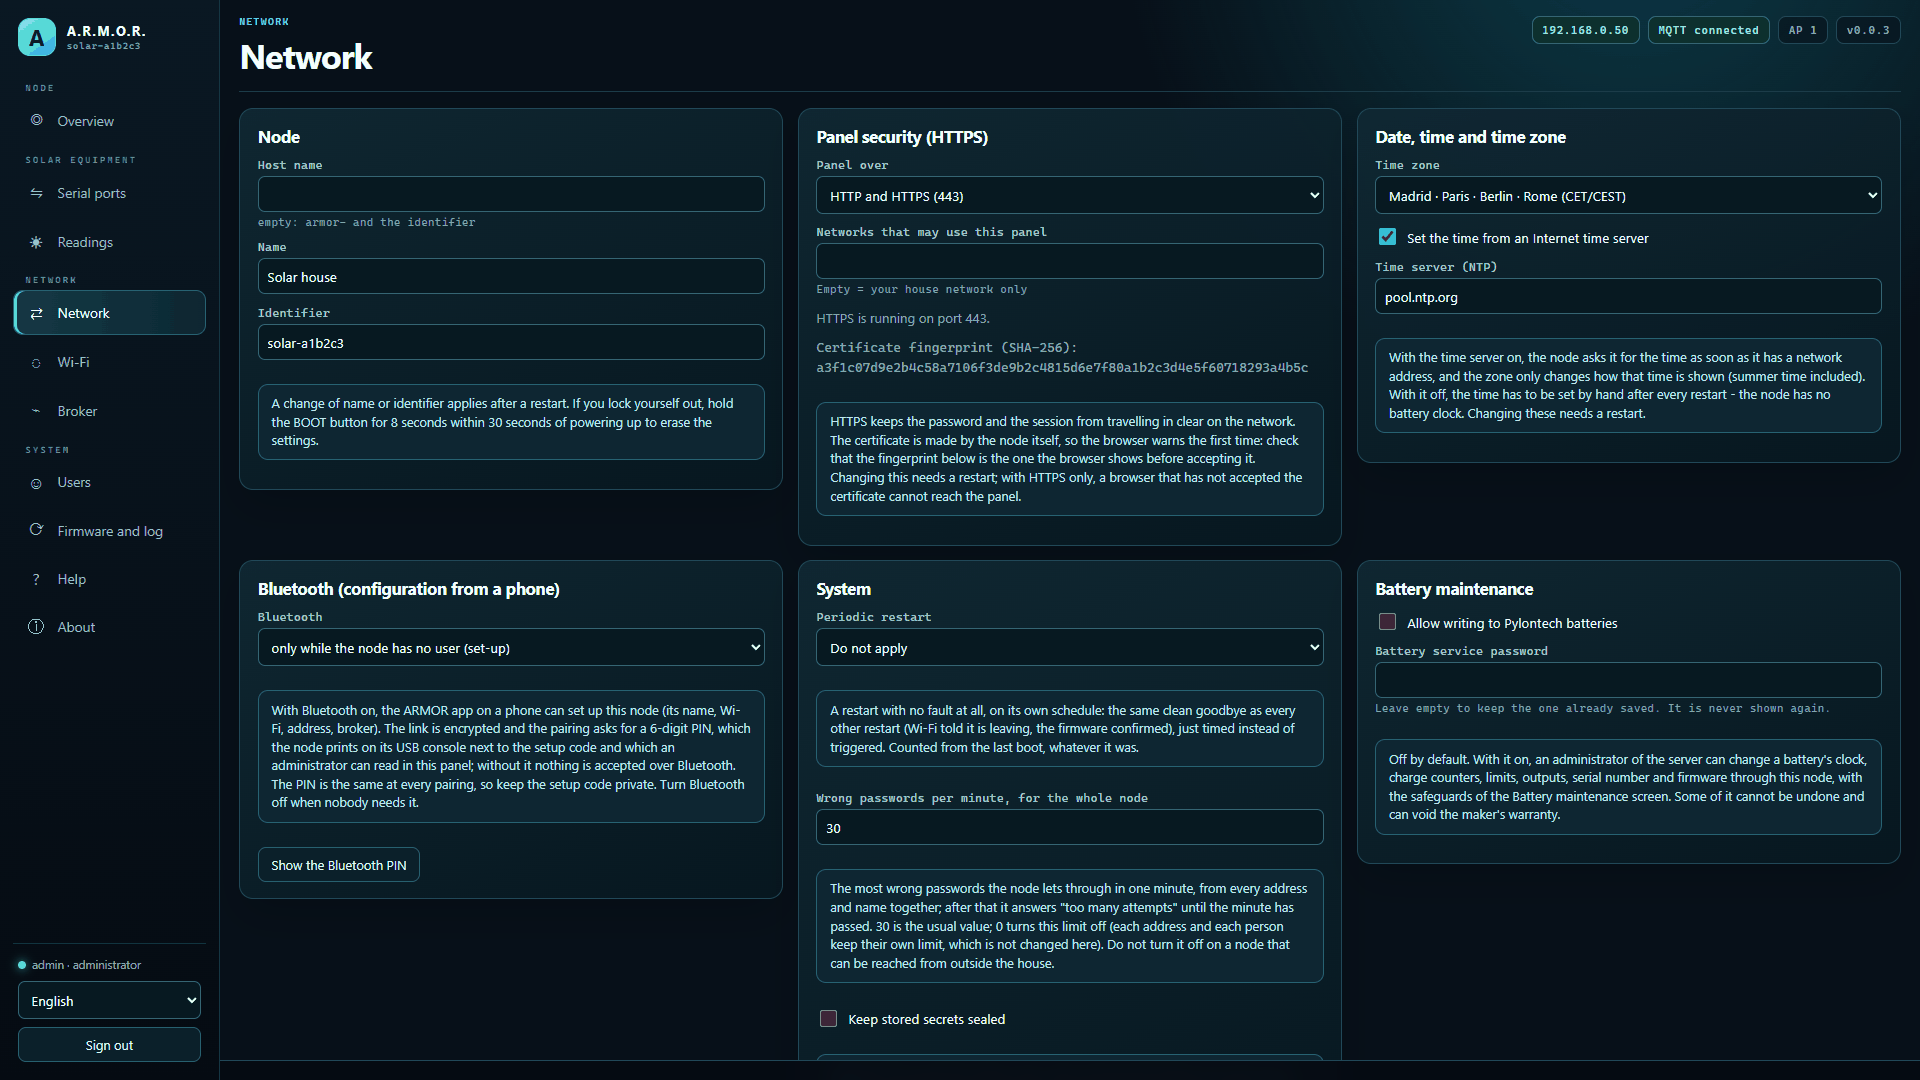
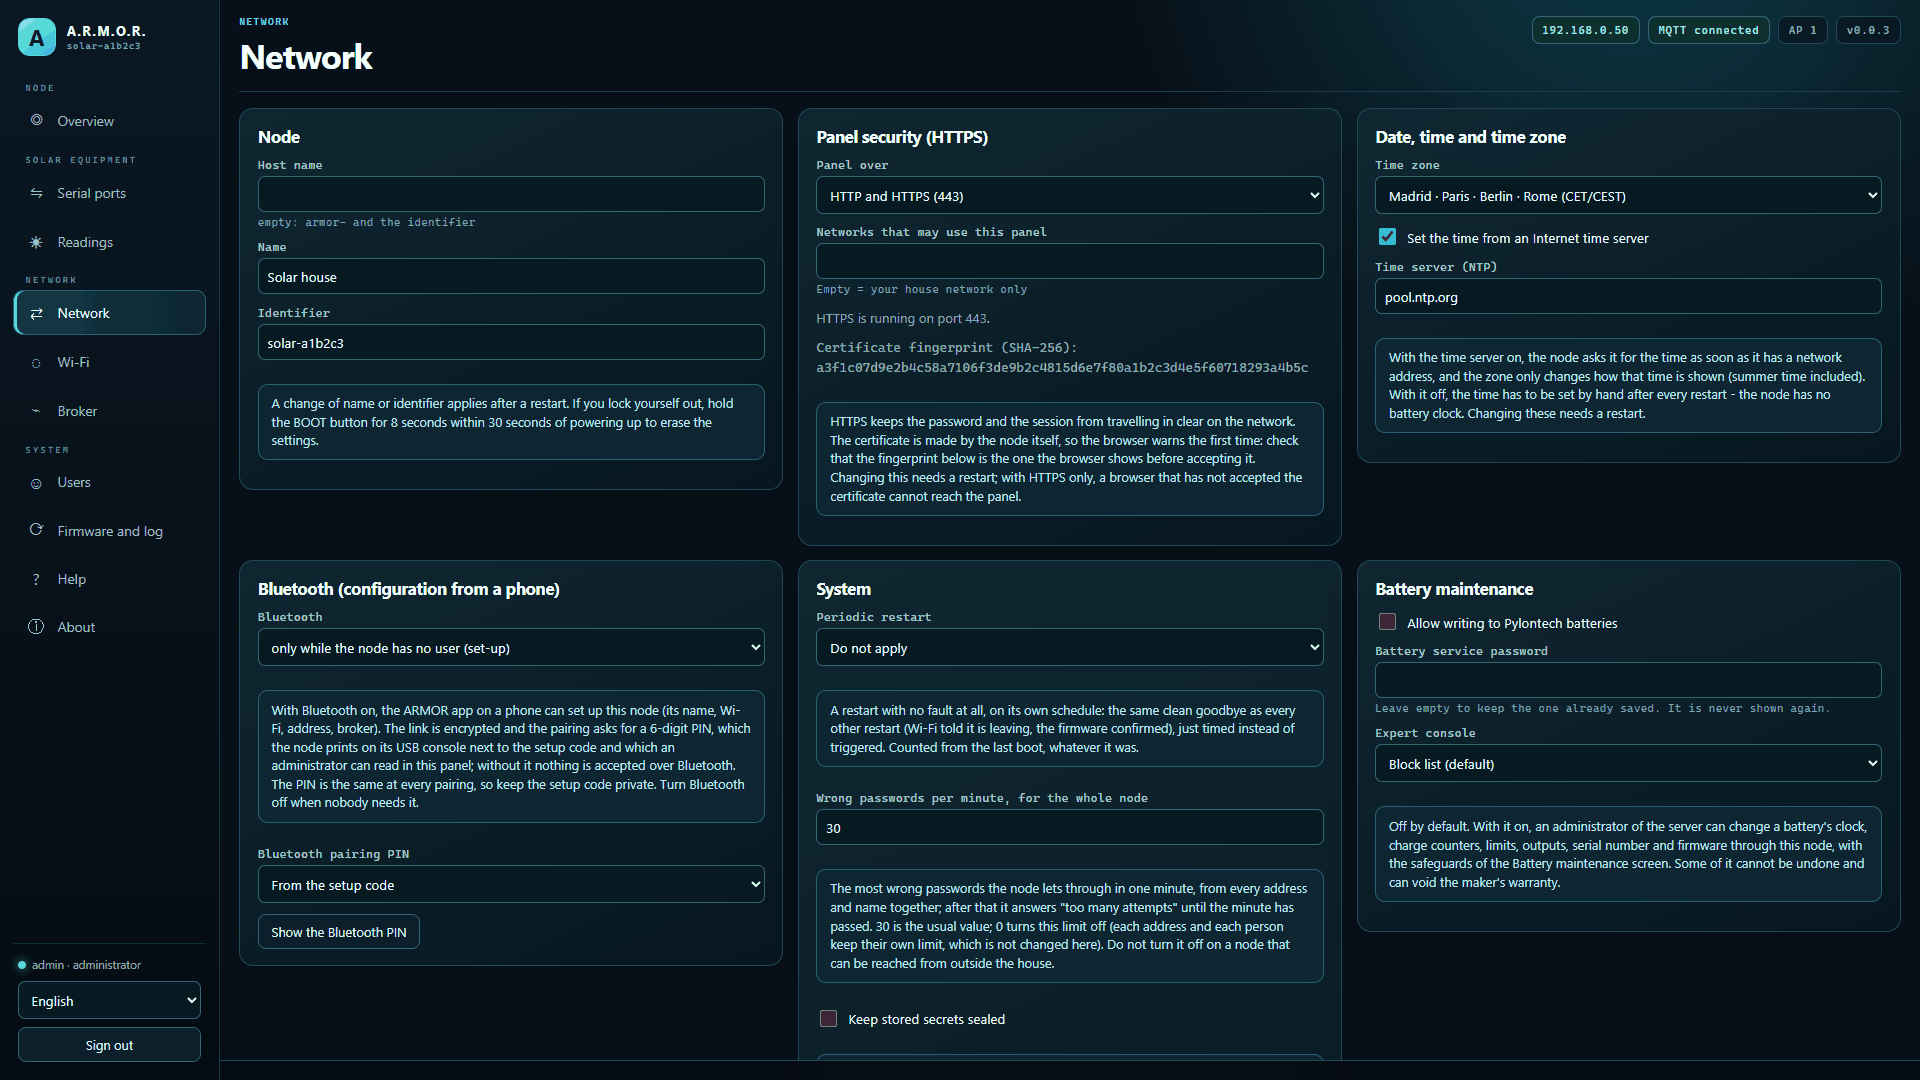
Release 0.6.8 (#41)
* Release 0.6.8

* Retake the README screenshots of the web panel

Changed region(s): [[0.7188, 0.6722, 1.0, 0.8556], [0.125, 0.7639, 0.2188, 0.825], [0.125, 0.8556, 0.2188, 0.8861]]

diff --git a/CHANGELOG.md b/CHANGELOG.md
@@ -4,30 +4,25 @@ All notable changes to this project are documented here.
 
 ## [Unreleased]
 
+## [0.6.8] - Signed battery orders, a narrower expert console, re-checked battery orders, set-up password and slot copy locks
+
 - **The structure generator can write a figure read from the code:** `tools/make_structure.py` resolves `{{fact:NAME|LAST}}` in the descriptions of `docs/structure.json` where the documentation tools are next to the repository, and writes LAST (the figure it had when last written) everywhere else, so a repository still builds on its own.
 - **The README no longer types the number of checks the host programs count:** the Tests row of At a glance, the Tests badge and the build sentence give the host test programs and the Python checks that `ctest` registers, read from the code; the total of checks changes with every test and was only ever a typed number.
 - **The Security and Updates lights of the Project status table follow the evidence ceiling:** they cannot be above what the Hardware row may show for the evidence of the manifest, and Security is never green; the rows that were higher are now orange in the eight READMEs, and `tools/status_lights.py` is the new shared copy.
-
 - **The file tree of the README is drawn from the structure source:** the text tree in the eight READMEs is generated from `docs/structure.json`, the file that also draws the picture, so the two cannot disagree.
 - **The README trees list `firmware_base.lock` and the architecture picture is redrawn with rounded coordinates:** the file that records the version of the shared base this copy was synced from appears in the text tree of the eight READMEs, and the legend positions of the picture carry no floating-point noise.
 - **The repository structure picture lists `firmware_base.lock`:** the file that records the version of the shared base this copy was synced from now appears in the picture, in the eight languages.
 - **The shared tools of the manifest and the status lights gain an opt-in strict check of the evidence:** `sync_manifests.py` and `status_lights.py` take `--strict-evidence` (off by default; `ARMOR_STRICT_EVIDENCE=1` switches it on for `armor_ci_validate.py`).
 - **A refused firmware can be erased from its slot:** the setting `security.ota_invalidate_rejected` (off by default, shown in the web panel in eight languages) erases the first sector of the slot a downloaded image was written to when that image is refused after it was complete (another project, another version than the release, not newer, a bad signature, or no way to boot it) and when a copy of the running slot does not end well, so a later fault cannot start it. The slot that runs is never touched.
-
 - **The Bluetooth pairing PIN can be a fixed one:** `ble.passkey_mode` now also takes `fixed`, with the six digits in `ble.passkey_pin` (kept and sealed like the node's passwords, never shown by the panel; the mode needs the PIN). The default is as before: the PIN derived from the setup code.
-
 - **The set-up access point can have a Wi-Fi password of its own:** the new setting `ap.setup_password` (8 to 63 characters, a secret, shown in the web panel) replaces the setup code of the label as the password of the access point a node without users opens. Empty by default, so nodes already installed keep their password; with it set, the code of the label no longer opens that Wi-Fi.
-
 - **The panel shows the switches of the signed orders:** the web panel gets the key of the signed orders (`battery.command_key`) and the switches `battery.require_sig` and `security.control_require_sig`, in eight languages.
-
 - **The orders of the server to the batteries and to the node itself can be required to be signed:** the new settings `battery.command_key` (the key of this node, a secret), `battery.require_sig` and `security.control_require_sig` (both off by default) make the node read a battery order, or an order to the node itself (restart, pause, standby...), only when it carries a good signature made with that key; a signed order is checked even with them off, a repeated one is refused, and with no valid key every order is refused. The settings are refused when a signature is required and there is no key.
-
 - **The expert console of the batteries has three modes, and the default is narrower:** `battery.expert_mode` (a selector in the node panel) is `blocklist` (the default: the blocked words now also include the ones that change what the battery keeps, such as `setlowcfg`, `shut`, `trst`, `statc`, `logc`, `datac`, `totalcoul`, `config` and `prot`, and the switching of the charge and discharge outputs, `cfet` and `dfet`), `strict` (plain readings only) or `off` (only the words that must never be sent are refused). Any line that is not a plain reading needs `accept_risk`. The typed operations are not affected.
 - **The copy of the running firmware to the other slot waits for an install or a manual write that is on:** `start_copy()` takes the same lock as `install()` and the manual writes (not only the flag of its own job) and gives it back when it ends, so two writers can no longer open the same slot.
 - **The manual firmware upload and the change of boot slot take the same lock as an installation from GitHub and a copy of the slot:** only one of them writes or reads the slot at a time (a second one is answered `409 ota_busy`), and the buffers of the upload and of the slot check are no longer shared between the two web servers. Before, an upload could overlap another writer or an upload through the other server and end in a corrupt image. Not run on a board; the build is checked in CI.
 - **A battery order is re-checked when it is executed:** the run stops with `battery_changed`, before anything is written, when the first `info` it reads is not the battery that was armed (model, serial, board and firmware), and `execute` asks again for the conditions of the arm step (battery present, idle, no critical alarm). Moving the console cable to another module inside the arm window can no longer write to the wrong battery.
 - **Switching the battery writes off in the panel is immediate:** saving the settings applies the new switch and the service password to the maintenance channel at once and forgets the orders armed so far; switching them on still needs a restart.
-
 - **The order channel of the node can check a signature before it reads anything:** `node_control::Options` has an optional `authorize` hook that sees each order that arrives on `armor/control/...` and drops it, before it can arm anything, when the node says no. A node that does not set it behaves as before.
 
 ## [0.6.7] - System summary, own alerts, exchange capture, random Bluetooth PIN and guarded firmware upload

diff --git a/README_jpn.md b/README_jpn.md
@@ -22,7 +22,7 @@
   <img src="https://img.shields.io/badge/Language-C%2B%2B17-00599c.svg" alt="Language">
   <img src="https://img.shields.io/badge/Devices-Voltronic%20%C2%B7%20Pylontech-ffb020.svg" alt="Devices">
   <img src="https://img.shields.io/badge/Tests-31%20host%20programs-2ea44f.svg" alt="Tests">
-  <img src="https://img.shields.io/badge/Version-0.6.7-0f6cbd.svg" alt="Version">
+  <img src="https://img.shields.io/badge/Version-0.6.8-0f6cbd.svg" alt="Version">
   <img src="https://img.shields.io/badge/Maturity-functional-00E5FF.svg" alt="Maturity">
 </p>
 
@@ -36,7 +36,7 @@
 
 | | |
 |---|---|
-| バージョン | `0.6.7` |
+| バージョン | `0.6.8` |
 | 成熟度 | 機能する |
 | 役割 | ESP32-S3 用ソーラーフィールドノード：インバーターとバッテリー（ファミリー：Field Nodes、親：ARMOR-COMMON） |
 | 技術 | C++17, ESP-IDF 5.5.5, ESP32-S3 |

diff --git a/README_deu.md b/README_deu.md
@@ -22,7 +22,7 @@
   <img src="https://img.shields.io/badge/Language-C%2B%2B17-00599c.svg" alt="Sprache">
   <img src="https://img.shields.io/badge/Devices-Voltronic%20%C2%B7%20Pylontech-ffb020.svg" alt="Devices">
   <img src="https://img.shields.io/badge/Tests-31%20host%20programs-2ea44f.svg" alt="Tests">
-  <img src="https://img.shields.io/badge/Version-0.6.7-0f6cbd.svg" alt="Version">
+  <img src="https://img.shields.io/badge/Version-0.6.8-0f6cbd.svg" alt="Version">
   <img src="https://img.shields.io/badge/Maturity-functional-00E5FF.svg" alt="Reifegrad">
 </p>
 
@@ -36,7 +36,7 @@
 
 | | |
 |---|---|
-| Version | `0.6.7` |
+| Version | `0.6.8` |
 | Reifegrad | Funktionsfähig |
 | Rolle | Solar-Feldknoten für ESP32-S3: Wechselrichter und Batterien (Familie: Field Nodes, übergeordnet: ARMOR-COMMON) |
 | Technik | C++17, ESP-IDF 5.5.5, ESP32-S3 |

diff --git a/README_fra.md b/README_fra.md
@@ -22,7 +22,7 @@
   <img src="https://img.shields.io/badge/Language-C%2B%2B17-00599c.svg" alt="Langage">
   <img src="https://img.shields.io/badge/Devices-Voltronic%20%C2%B7%20Pylontech-ffb020.svg" alt="Devices">
   <img src="https://img.shields.io/badge/Tests-31%20host%20programs-2ea44f.svg" alt="Tests">
-  <img src="https://img.shields.io/badge/Version-0.6.7-0f6cbd.svg" alt="Version">
+  <img src="https://img.shields.io/badge/Version-0.6.8-0f6cbd.svg" alt="Version">
   <img src="https://img.shields.io/badge/Maturity-functional-00E5FF.svg" alt="Maturité">
 </p>
 
@@ -36,7 +36,7 @@
 
 | | |
 |---|---|
-| Version | `0.6.7` |
+| Version | `0.6.8` |
 | Maturité | Fonctionnel |
 | Rôle | Nœud de terrain solaire pour ESP32-S3 : onduleurs et batteries (famille : Field Nodes, parent : ARMOR-COMMON) |
 | Technologie | C++17, ESP-IDF 5.5.5, ESP32-S3 |

diff --git a/README_spa.md b/README_spa.md
@@ -22,7 +22,7 @@
   <img src="https://img.shields.io/badge/Language-C%2B%2B17-00599c.svg" alt="Lenguaje">
   <img src="https://img.shields.io/badge/Devices-Voltronic%20%C2%B7%20Pylontech-ffb020.svg" alt="Devices">
   <img src="https://img.shields.io/badge/Tests-31%20host%20programs-2ea44f.svg" alt="Pruebas">
-  <img src="https://img.shields.io/badge/Version-0.6.7-0f6cbd.svg" alt="Versión">
+  <img src="https://img.shields.io/badge/Version-0.6.8-0f6cbd.svg" alt="Versión">
   <img src="https://img.shields.io/badge/Maturity-functional-00E5FF.svg" alt="Madurez">
 </p>
 
@@ -36,7 +36,7 @@
 
 | | |
 |---|---|
-| Versión | `0.6.7` |
+| Versión | `0.6.8` |
 | Madurez | Funcional |
 | Función | Nodo de campo solar para ESP32-S3: inversores y baterías (familia: Field Nodes, padre: ARMOR-COMMON) |
 | Tecnología | C++17, ESP-IDF 5.5.5, ESP32-S3 |

diff --git a/README_ita.md b/README_ita.md
@@ -22,7 +22,7 @@
   <img src="https://img.shields.io/badge/Language-C%2B%2B17-00599c.svg" alt="Linguaggio">
   <img src="https://img.shields.io/badge/Devices-Voltronic%20%C2%B7%20Pylontech-ffb020.svg" alt="Devices">
   <img src="https://img.shields.io/badge/Tests-31%20host%20programs-2ea44f.svg" alt="Test">
-  <img src="https://img.shields.io/badge/Version-0.6.7-0f6cbd.svg" alt="Versione">
+  <img src="https://img.shields.io/badge/Version-0.6.8-0f6cbd.svg" alt="Versione">
   <img src="https://img.shields.io/badge/Maturity-functional-00E5FF.svg" alt="Maturità">
 </p>
 
@@ -36,7 +36,7 @@
 
 | | |
 |---|---|
-| Versione | `0.6.7` |
+| Versione | `0.6.8` |
 | Maturità | Funzionale |
 | Ruolo | Nodo di campo solare per ESP32-S3: inverter e batterie (famiglia: Field Nodes, padre: ARMOR-COMMON) |
 | Tecnologia | C++17, ESP-IDF 5.5.5, ESP32-S3 |

diff --git a/README_por.md b/README_por.md
@@ -22,7 +22,7 @@
   <img src="https://img.shields.io/badge/Language-C%2B%2B17-00599c.svg" alt="Language">
   <img src="https://img.shields.io/badge/Devices-Voltronic%20%C2%B7%20Pylontech-ffb020.svg" alt="Devices">
   <img src="https://img.shields.io/badge/Tests-31%20host%20programs-2ea44f.svg" alt="Tests">
-  <img src="https://img.shields.io/badge/Version-0.6.7-0f6cbd.svg" alt="Version">
+  <img src="https://img.shields.io/badge/Version-0.6.8-0f6cbd.svg" alt="Version">
   <img src="https://img.shields.io/badge/Maturity-functional-00E5FF.svg" alt="Maturity">
 </p>
 
@@ -36,7 +36,7 @@
 
 | | |
 |---|---|
-| Versão | `0.6.7` |
+| Versão | `0.6.8` |
 | Maturidade | Funcional |
 | Função | Nó de campo solar para ESP32-S3: inversores e baterias (família: Field Nodes, pai: ARMOR-COMMON) |
 | Tecnologia | C++17, ESP-IDF 5.5.5, ESP32-S3 |

diff --git a/README_zho.md b/README_zho.md
@@ -22,7 +22,7 @@
   <img src="https://img.shields.io/badge/Language-C%2B%2B17-00599c.svg" alt="Language">
   <img src="https://img.shields.io/badge/Devices-Voltronic%20%C2%B7%20Pylontech-ffb020.svg" alt="Devices">
   <img src="https://img.shields.io/badge/Tests-31%20host%20programs-2ea44f.svg" alt="Tests">
-  <img src="https://img.shields.io/badge/Version-0.6.7-0f6cbd.svg" alt="Version">
+  <img src="https://img.shields.io/badge/Version-0.6.8-0f6cbd.svg" alt="Version">
   <img src="https://img.shields.io/badge/Maturity-functional-00E5FF.svg" alt="Maturity">
 </p>
 
@@ -36,7 +36,7 @@
 
 | | |
 |---|---|
-| 版本 | `0.6.7` |
+| 版本 | `0.6.8` |
 | 成熟度 | 可用 |
 | 角色 | ESP32-S3 太阳能现场节点：逆变器和电池（家族：Field Nodes，上级：ARMOR-COMMON） |
 | 技术栈 | C++17, ESP-IDF 5.5.5, ESP32-S3 |

diff --git a/README.md b/README.md
@@ -22,7 +22,7 @@
   <img src="https://img.shields.io/badge/Language-C%2B%2B17-00599c.svg" alt="Language">
   <img src="https://img.shields.io/badge/Devices-Voltronic%20%C2%B7%20Pylontech-ffb020.svg" alt="Devices">
   <img src="https://img.shields.io/badge/Tests-31%20host%20programs-2ea44f.svg" alt="Tests">
-  <img src="https://img.shields.io/badge/Version-0.6.7-0f6cbd.svg" alt="Version">
+  <img src="https://img.shields.io/badge/Version-0.6.8-0f6cbd.svg" alt="Version">
   <img src="https://img.shields.io/badge/Maturity-functional-00E5FF.svg" alt="Maturity">
 </p>
 
@@ -36,7 +36,7 @@
 
 | | |
 |---|---|
-| Version | `0.6.7` |
+| Version | `0.6.8` |
 | Maturity | Functional |
 | Role | Solar field node for ESP32-S3: inverters and batteries (family: Field Nodes, parent: ARMOR-COMMON) |
 | Stack | C++17, ESP-IDF 5.5.5, ESP32-S3 |
